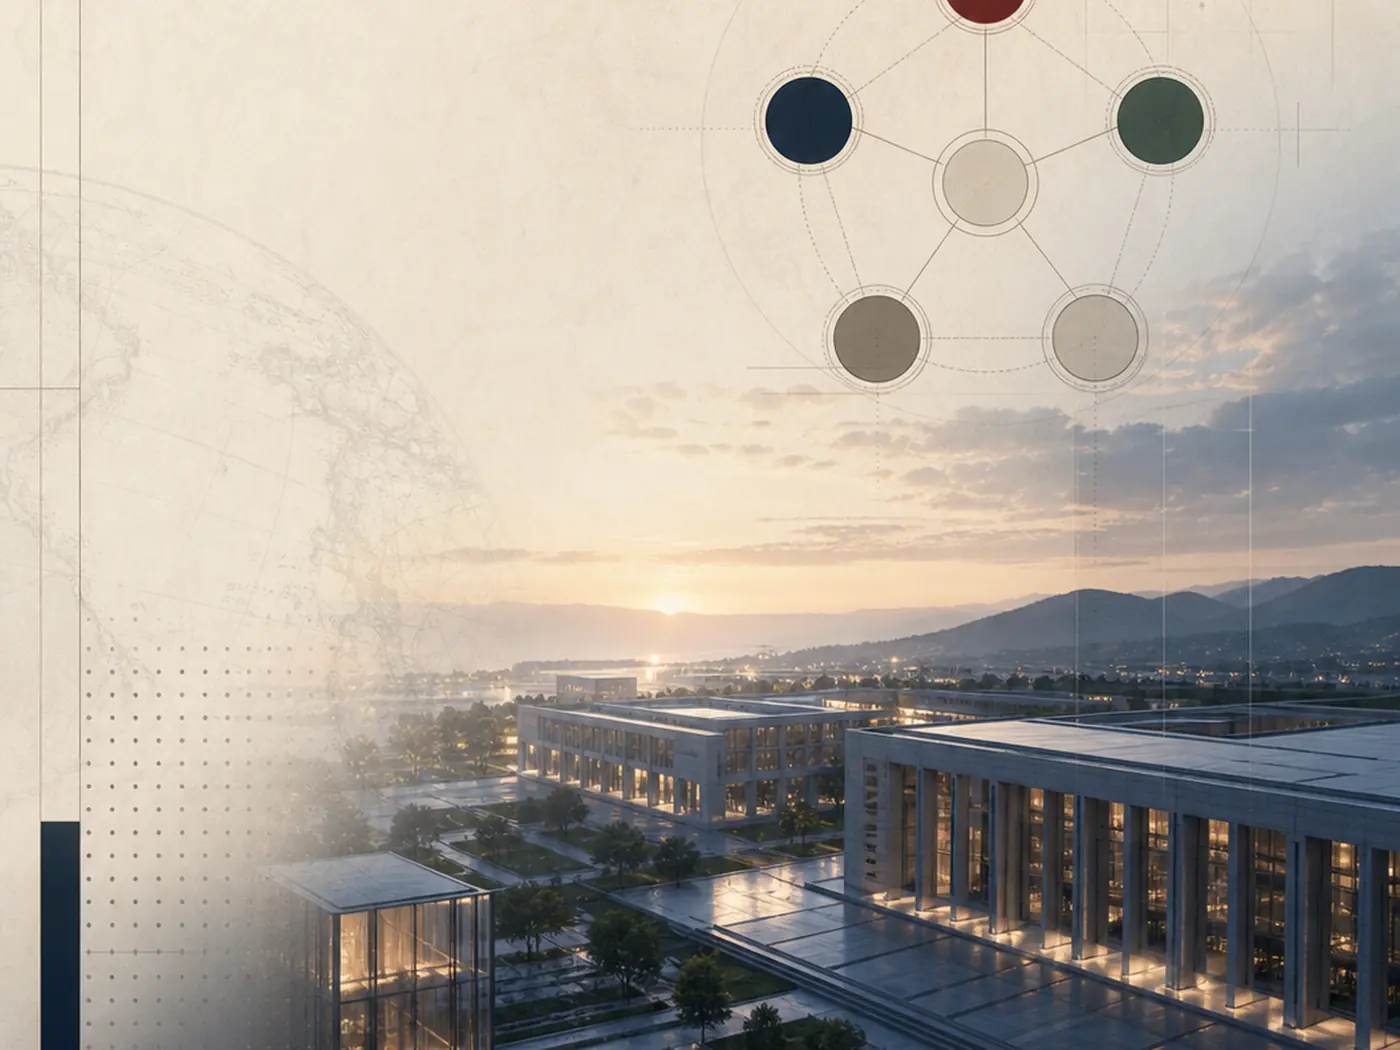
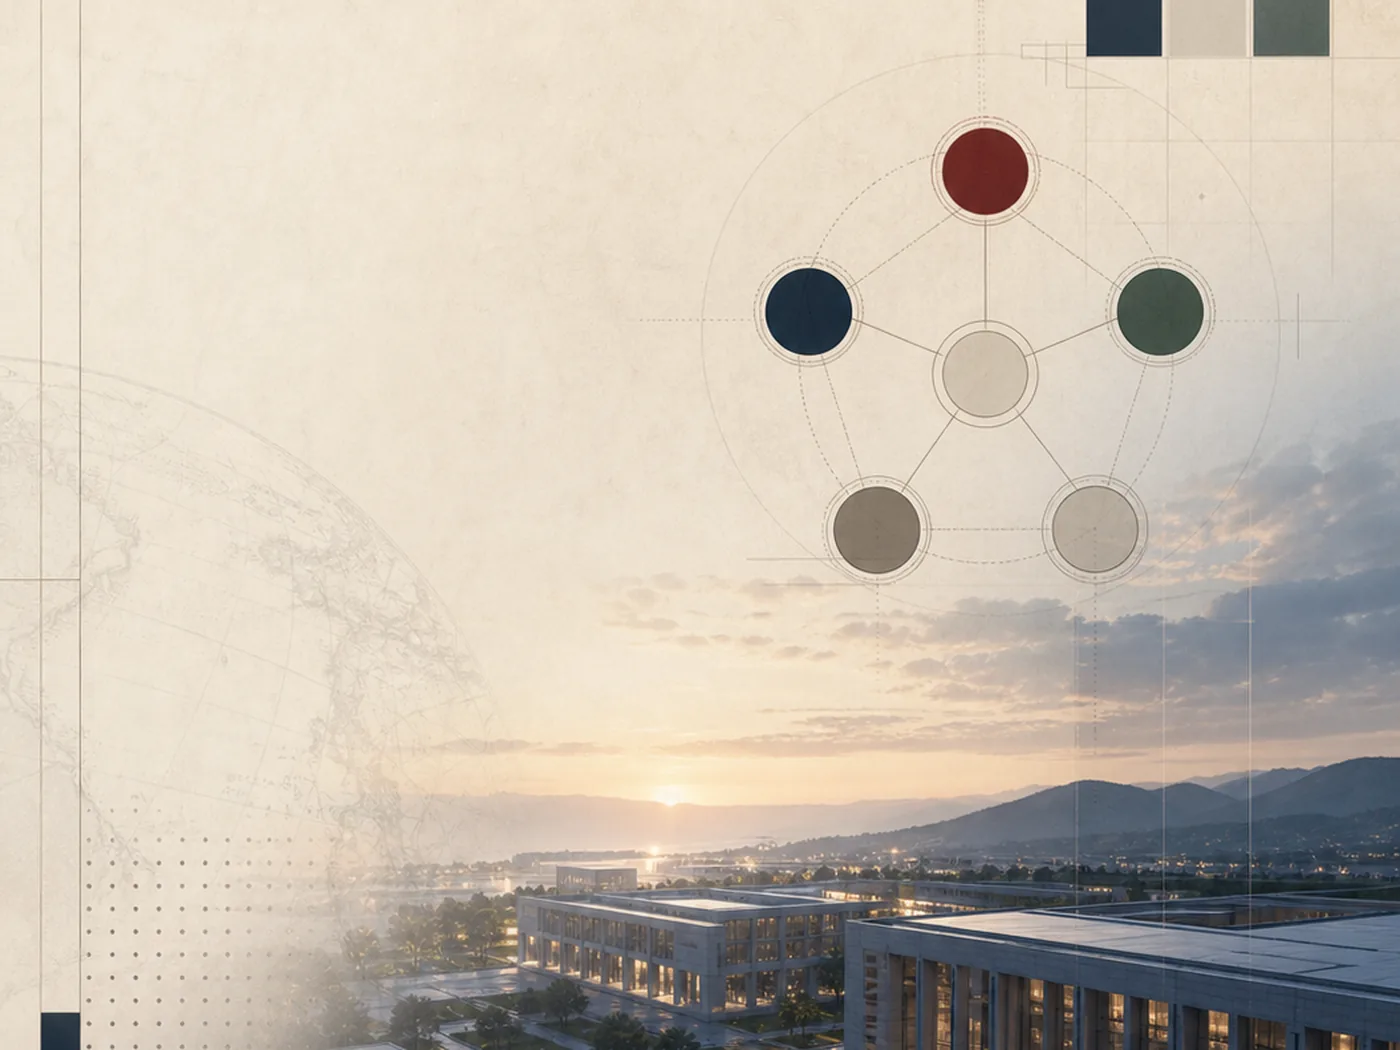
Refresh academic architecture visual

diff --git a/index.html b/index.html
@@ -10,7 +10,7 @@
 <link rel="preconnect" href="https://fonts.googleapis.com">
 <link rel="preconnect" href="https://fonts.gstatic.com" crossorigin>
 <link href="https://fonts.googleapis.com/css2?family=Lora:ital,wght@0,400;0,500;0,600;0,700;1,400;1,500&family=Lato:wght@300;400;700;900&family=Noto+Serif+SC:wght@500;600;700&family=Noto+Sans+SC:wght@300;400;500;700&display=swap" rel="stylesheet">
-<link rel="stylesheet" href="styles.css?v=20260627-r33">
+<link rel="stylesheet" href="styles.css?v=20260627-r34">
 <link rel="icon" type="image/svg+xml" href="favicon.svg">
 <meta name="theme-color" content="#111D24">
 <meta property="og:type" content="website">
@@ -96,7 +96,7 @@
 <section class="knowledge-system pad">
   <div class="wrap media-split">
     <figure class="media-panel reveal">
-      <img src="academic-architecture.webp" alt="Campus landscape and interfaculty academic architecture / 校园景观与跨学院学术架构" loading="lazy" decoding="async" >
+      <img src="academic-architecture.webp" alt="Interfaculty academic architecture and campus landscape / 跨学院学术架构与校园景观" loading="lazy" decoding="async" >
       <figcaption><span class="en">Academic architecture as institutional design</span><span class="zh">作为机构设计的学术架构</span></figcaption>
     </figure>
     <div class="media-copy reveal">
@@ -341,6 +341,6 @@
     <span><span class="en">Educating the citizens of the future</span><span class="zh">培育属于未来世界的公民</span></span>
   </div>
 </footer>
-<script src="app.js?v=20260627-r33"></script>
+<script src="app.js?v=20260627-r34"></script>
 </body>
 </html>

diff --git a/404.html b/404.html
@@ -10,7 +10,7 @@
 <link rel="preconnect" href="https://fonts.googleapis.com">
 <link rel="preconnect" href="https://fonts.gstatic.com" crossorigin>
 <link href="https://fonts.googleapis.com/css2?family=Lora:ital,wght@0,400;0,500;0,600;0,700;1,400;1,500&family=Lato:wght@300;400;700;900&family=Noto+Serif+SC:wght@500;600;700&family=Noto+Sans+SC:wght@300;400;500;700&display=swap" rel="stylesheet">
-<link rel="stylesheet" href="styles.css?v=20260627-r33">
+<link rel="stylesheet" href="styles.css?v=20260627-r34">
 <link rel="icon" type="image/svg+xml" href="favicon.svg">
 <meta name="theme-color" content="#111D24">
 <meta property="og:type" content="website">
@@ -98,6 +98,6 @@
     <span><span class="en">Educating the citizens of the future</span><span class="zh">培育属于未来世界的公民</span></span>
   </div>
 </footer>
-<script src="app.js?v=20260627-r33"></script>
+<script src="app.js?v=20260627-r34"></script>
 </body>
 </html>

diff --git a/about.html b/about.html
@@ -10,7 +10,7 @@
 <link rel="preconnect" href="https://fonts.googleapis.com">
 <link rel="preconnect" href="https://fonts.gstatic.com" crossorigin>
 <link href="https://fonts.googleapis.com/css2?family=Lora:ital,wght@0,400;0,500;0,600;0,700;1,400;1,500&family=Lato:wght@300;400;700;900&family=Noto+Serif+SC:wght@500;600;700&family=Noto+Sans+SC:wght@300;400;500;700&display=swap" rel="stylesheet">
-<link rel="stylesheet" href="styles.css?v=20260627-r33">
+<link rel="stylesheet" href="styles.css?v=20260627-r34">
 <link rel="icon" type="image/svg+xml" href="favicon.svg">
 <meta name="theme-color" content="#111D24">
 <meta property="og:type" content="website">
@@ -252,6 +252,6 @@
     <span><span class="en">Educating the citizens of the future</span><span class="zh">培育属于未来世界的公民</span></span>
   </div>
 </footer>
-<script src="app.js?v=20260627-r33"></script>
+<script src="app.js?v=20260627-r34"></script>
 </body>
 </html>

diff --git a/dba-business-administration.html b/dba-business-administration.html
@@ -10,7 +10,7 @@
 <link rel="preconnect" href="https://fonts.googleapis.com">
 <link rel="preconnect" href="https://fonts.gstatic.com" crossorigin>
 <link href="https://fonts.googleapis.com/css2?family=Lora:ital,wght@0,400;0,500;0,600;0,700;1,400;1,500&family=Lato:wght@300;400;700;900&family=Noto+Serif+SC:wght@500;600;700&family=Noto+Sans+SC:wght@300;400;500;700&display=swap" rel="stylesheet">
-<link rel="stylesheet" href="styles.css?v=20260627-r33">
+<link rel="stylesheet" href="styles.css?v=20260627-r34">
 <link rel="icon" type="image/svg+xml" href="favicon.svg">
 <meta name="theme-color" content="#111D24">
 <meta property="og:type" content="website">
@@ -136,6 +136,6 @@
     <span><span class="en">Educating the citizens of the future</span><span class="zh">培育属于未来世界的公民</span></span>
   </div>
 </footer>
-<script src="app.js?v=20260627-r33"></script>
+<script src="app.js?v=20260627-r34"></script>
 </body>
 </html>

diff --git a/dgov-digital-governance.html b/dgov-digital-governance.html
@@ -10,7 +10,7 @@
 <link rel="preconnect" href="https://fonts.googleapis.com">
 <link rel="preconnect" href="https://fonts.gstatic.com" crossorigin>
 <link href="https://fonts.googleapis.com/css2?family=Lora:ital,wght@0,400;0,500;0,600;0,700;1,400;1,500&family=Lato:wght@300;400;700;900&family=Noto+Serif+SC:wght@500;600;700&family=Noto+Sans+SC:wght@300;400;500;700&display=swap" rel="stylesheet">
-<link rel="stylesheet" href="styles.css?v=20260627-r33">
+<link rel="stylesheet" href="styles.css?v=20260627-r34">
 <link rel="icon" type="image/svg+xml" href="favicon.svg">
 <meta name="theme-color" content="#111D24">
 <meta property="og:type" content="website">
@@ -136,6 +136,6 @@
     <span><span class="en">Educating the citizens of the future</span><span class="zh">培育属于未来世界的公民</span></span>
   </div>
 </footer>
-<script src="app.js?v=20260627-r33"></script>
+<script src="app.js?v=20260627-r34"></script>
 </body>
 </html>

diff --git a/dprof-applied-ai.html b/dprof-applied-ai.html
@@ -10,7 +10,7 @@
 <link rel="preconnect" href="https://fonts.googleapis.com">
 <link rel="preconnect" href="https://fonts.gstatic.com" crossorigin>
 <link href="https://fonts.googleapis.com/css2?family=Lora:ital,wght@0,400;0,500;0,600;0,700;1,400;1,500&family=Lato:wght@300;400;700;900&family=Noto+Serif+SC:wght@500;600;700&family=Noto+Sans+SC:wght@300;400;500;700&display=swap" rel="stylesheet">
-<link rel="stylesheet" href="styles.css?v=20260627-r33">
+<link rel="stylesheet" href="styles.css?v=20260627-r34">
 <link rel="icon" type="image/svg+xml" href="favicon.svg">
 <meta name="theme-color" content="#111D24">
 <meta property="og:type" content="website">
@@ -136,6 +136,6 @@
     <span><span class="en">Educating the citizens of the future</span><span class="zh">培育属于未来世界的公民</span></span>
   </div>
 </footer>
-<script src="app.js?v=20260627-r33"></script>
+<script src="app.js?v=20260627-r34"></script>
 </body>
 </html>

diff --git a/dprof-design-media.html b/dprof-design-media.html
@@ -10,7 +10,7 @@
 <link rel="preconnect" href="https://fonts.googleapis.com">
 <link rel="preconnect" href="https://fonts.gstatic.com" crossorigin>
 <link href="https://fonts.googleapis.com/css2?family=Lora:ital,wght@0,400;0,500;0,600;0,700;1,400;1,500&family=Lato:wght@300;400;700;900&family=Noto+Serif+SC:wght@500;600;700&family=Noto+Sans+SC:wght@300;400;500;700&display=swap" rel="stylesheet">
-<link rel="stylesheet" href="styles.css?v=20260627-r33">
+<link rel="stylesheet" href="styles.css?v=20260627-r34">
 <link rel="icon" type="image/svg+xml" href="favicon.svg">
 <meta name="theme-color" content="#111D24">
 <meta property="og:type" content="website">
@@ -136,6 +136,6 @@
     <span><span class="en">Educating the citizens of the future</span><span class="zh">培育属于未来世界的公民</span></span>
   </div>
 </footer>
-<script src="app.js?v=20260627-r33"></script>
+<script src="app.js?v=20260627-r34"></script>
 </body>
 </html>

diff --git a/dprof-leadership-human-development.html b/dprof-leadership-human-development.html
@@ -10,7 +10,7 @@
 <link rel="preconnect" href="https://fonts.googleapis.com">
 <link rel="preconnect" href="https://fonts.gstatic.com" crossorigin>
 <link href="https://fonts.googleapis.com/css2?family=Lora:ital,wght@0,400;0,500;0,600;0,700;1,400;1,500&family=Lato:wght@300;400;700;900&family=Noto+Serif+SC:wght@500;600;700&family=Noto+Sans+SC:wght@300;400;500;700&display=swap" rel="stylesheet">
-<link rel="stylesheet" href="styles.css?v=20260627-r33">
+<link rel="stylesheet" href="styles.css?v=20260627-r34">
 <link rel="icon" type="image/svg+xml" href="favicon.svg">
 <meta name="theme-color" content="#111D24">
 <meta property="og:type" content="website">
@@ -136,6 +136,6 @@
     <span><span class="en">Educating the citizens of the future</span><span class="zh">培育属于未来世界的公民</span></span>
   </div>
 </footer>
-<script src="app.js?v=20260627-r33"></script>
+<script src="app.js?v=20260627-r34"></script>
 </body>
 </html>

diff --git a/faculty-computing-ai.html b/faculty-computing-ai.html
@@ -10,7 +10,7 @@
 <link rel="preconnect" href="https://fonts.googleapis.com">
 <link rel="preconnect" href="https://fonts.gstatic.com" crossorigin>
 <link href="https://fonts.googleapis.com/css2?family=Lora:ital,wght@0,400;0,500;0,600;0,700;1,400;1,500&family=Lato:wght@300;400;700;900&family=Noto+Serif+SC:wght@500;600;700&family=Noto+Sans+SC:wght@300;400;500;700&display=swap" rel="stylesheet">
-<link rel="stylesheet" href="styles.css?v=20260627-r33">
+<link rel="stylesheet" href="styles.css?v=20260627-r34">
 <link rel="icon" type="image/svg+xml" href="favicon.svg">
 <meta name="theme-color" content="#111D24">
 <meta property="og:type" content="website">
@@ -129,6 +129,6 @@
     <span><span class="en">Educating the citizens of the future</span><span class="zh">培育属于未来世界的公民</span></span>
   </div>
 </footer>
-<script src="app.js?v=20260627-r33"></script>
+<script src="app.js?v=20260627-r34"></script>
 </body>
 </html>

diff --git a/faculty-design-media.html b/faculty-design-media.html
@@ -10,7 +10,7 @@
 <link rel="preconnect" href="https://fonts.googleapis.com">
 <link rel="preconnect" href="https://fonts.gstatic.com" crossorigin>
 <link href="https://fonts.googleapis.com/css2?family=Lora:ital,wght@0,400;0,500;0,600;0,700;1,400;1,500&family=Lato:wght@300;400;700;900&family=Noto+Serif+SC:wght@500;600;700&family=Noto+Sans+SC:wght@300;400;500;700&display=swap" rel="stylesheet">
-<link rel="stylesheet" href="styles.css?v=20260627-r33">
+<link rel="stylesheet" href="styles.css?v=20260627-r34">
 <link rel="icon" type="image/svg+xml" href="favicon.svg">
 <meta name="theme-color" content="#111D24">
 <meta property="og:type" content="website">
@@ -129,6 +129,6 @@
     <span><span class="en">Educating the citizens of the future</span><span class="zh">培育属于未来世界的公民</span></span>
   </div>
 </footer>
-<script src="app.js?v=20260627-r33"></script>
+<script src="app.js?v=20260627-r34"></script>
 </body>
 </html>

diff --git a/faculty-digital-governance.html b/faculty-digital-governance.html
@@ -10,7 +10,7 @@
 <link rel="preconnect" href="https://fonts.googleapis.com">
 <link rel="preconnect" href="https://fonts.gstatic.com" crossorigin>
 <link href="https://fonts.googleapis.com/css2?family=Lora:ital,wght@0,400;0,500;0,600;0,700;1,400;1,500&family=Lato:wght@300;400;700;900&family=Noto+Serif+SC:wght@500;600;700&family=Noto+Sans+SC:wght@300;400;500;700&display=swap" rel="stylesheet">
-<link rel="stylesheet" href="styles.css?v=20260627-r33">
+<link rel="stylesheet" href="styles.css?v=20260627-r34">
 <link rel="icon" type="image/svg+xml" href="favicon.svg">
 <meta name="theme-color" content="#111D24">
 <meta property="og:type" content="website">
@@ -129,6 +129,6 @@
     <span><span class="en">Educating the citizens of the future</span><span class="zh">培育属于未来世界的公民</span></span>
   </div>
 </footer>
-<script src="app.js?v=20260627-r33"></script>
+<script src="app.js?v=20260627-r34"></script>
 </body>
 </html>

diff --git a/faculty-economy-finance.html b/faculty-economy-finance.html
@@ -10,7 +10,7 @@
 <link rel="preconnect" href="https://fonts.googleapis.com">
 <link rel="preconnect" href="https://fonts.gstatic.com" crossorigin>
 <link href="https://fonts.googleapis.com/css2?family=Lora:ital,wght@0,400;0,500;0,600;0,700;1,400;1,500&family=Lato:wght@300;400;700;900&family=Noto+Serif+SC:wght@500;600;700&family=Noto+Sans+SC:wght@300;400;500;700&display=swap" rel="stylesheet">
-<link rel="stylesheet" href="styles.css?v=20260627-r33">
+<link rel="stylesheet" href="styles.css?v=20260627-r34">
 <link rel="icon" type="image/svg+xml" href="favicon.svg">
 <meta name="theme-color" content="#111D24">
 <meta property="og:type" content="website">
@@ -129,6 +129,6 @@
     <span><span class="en">Educating the citizens of the future</span><span class="zh">培育属于未来世界的公民</span></span>
   </div>
 </footer>
-<script src="app.js?v=20260627-r33"></script>
+<script src="app.js?v=20260627-r34"></script>
 </body>
 </html>